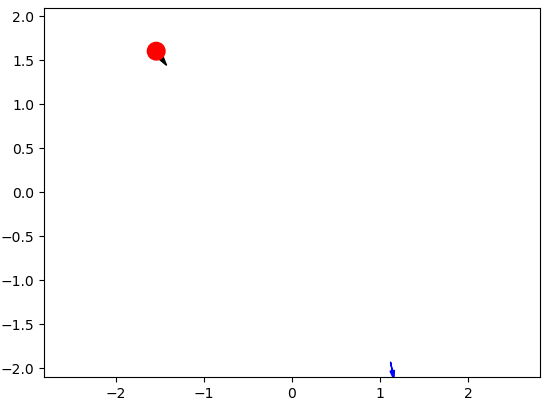
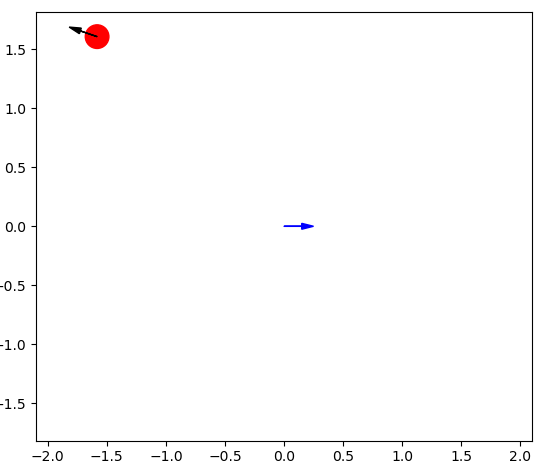
Fix reward functions

Changed region(s): [[0.0, 0.0, 1.0, 1.0], [0.25, 0.0896, 0.3125, 0.1791], [0.5312, 0.4776, 0.5938, 0.5075]]

diff --git a/classic_gym/envs/mobile_robot.py b/classic_gym/envs/mobile_robot.py
@@ -14,7 +14,7 @@ class MobileRobot(gym.Env):
         self.NX = 3
         self.NU = 2
 
-        self.x = np.zeros(self.NX*2)
+        self.x = np.zeros(self.NX)
         
         self.dT = dT
         self.obs = obs
@@ -28,8 +28,8 @@ class MobileRobot(gym.Env):
         # Controller Weight
         self.action_space = spaces.Box(low=-0.5, high=0.5, shape=(2,))
         self.observation_space = spaces.Box(
-            low=np.array([-2, -2, -6, -2, -2, -6]),
-            high=np.array([2,  2,  6,  2,  2,  6]),
+            low=np.array([-2, -2, -6]),
+            high=np.array([2,  2,  6]),
             dtype=np.float32
         )
 
@@ -80,17 +80,12 @@ class MobileRobot(gym.Env):
         np.random.seed(seed=seed)
 
     def reset(self):
-        self.x = np.zeros(self.NX*2)
+        self.x = np.zeros(self.NX)
 
         # machine state
         self.x[0] = np.random.uniform(-2, 2)
         self.x[1] = np.random.uniform(-2, 2)
         self.x[2] = np.random.uniform(-np.pi, np.pi)
-
-        # target 
-        self.x[3] = np.random.uniform(-2, 2)
-        self.x[4] = np.random.uniform(-2, 2)
-        self.x[5] = np.random.uniform(-np.pi, np.pi)
 
         self.time = 0
 
@@ -98,11 +93,12 @@ class MobileRobot(gym.Env):
 
     def step(self, u):
         u = np.clip(u, -0.5, 0.5)
+
         dT = self.dT / self.obs
         
         for _ in range(self.obs):
-            A, B, g = self.gen_dmodel(self.x[:self.NX], u, dT)
-            self.x[:self.NX] = A@self.x[:self.NX] + B @ u +g
+            A, B, g = self.gen_dmodel(self.x, u, dT)
+            self.x = A@self.x + B @ u +g
 
         self.time += 1
 
@@ -127,11 +123,11 @@ class MobileRobot(gym.Env):
         circle = plt.Circle((self.x[0],self.x[1]), 0.1, color='r', fill=True)
         ax.add_artist(circle)
         plt.arrow(self.x[0], self.x[1], 
-                  l*np.sin(self.x[2]), l*np.cos(self.x[2]), 
+                  l*np.cos(self.x[2]), l*np.sin(self.x[2]), 
                   head_width=0.05, head_length=0.1, fc='k', ec='k', zorder=10)
         # Target Arrow
-        plt.arrow(self.x[3], self.x[4], 
-                  l*np.sin(self.x[5]), l*np.cos(self.x[5]), 
+        plt.arrow(0, 0, 
+                  l*np.cos(0.), l*np.sin(0.), 
                   head_width=0.05, head_length=0.1, fc='b', ec='b')
         plt.axis('equal')
         plt.xlim(-2.1, 2.1)
@@ -141,9 +137,9 @@ class MobileRobot(gym.Env):
     def _reward(self, obs, act):
         obs_clipped = np.clip(obs, self.observation_space.low, self.observation_space.high)
         crashed = not np.array_equiv(obs_clipped, obs)
-        J_state = np.sum((self.x[:self.NX] - self.x[self.NX:])**2)
+        J_state = np.sum(self.x**2)
         J_action = np.sum(act**2) * 0.1
-        return - (J_state + J_action + crashed*np.inf)
+        return - (J_state + J_action)
 
     def _is_terminal(self, obs):
         time = self.time > self.spec.max_episode_steps

diff --git a/classic_gym/envs/evaporator.py b/classic_gym/envs/evaporator.py
@@ -109,7 +109,7 @@ class Evaporator(gym.Env):
         obs_clipped = np.clip(obs, self.observation_space.low, self.observation_space.high)
         crashed = not np.array_equiv(obs_clipped, obs)
         J=23.8176373535448*act[0]+0.6*act[1]+1621.96634461555-86.86696632099708*obs[1]
-        return - (J + crashed*np.inf)
+        return -J
 
     def _is_terminal(self, obs):
         time = self.time > self.spec.max_episode_steps

diff --git a/README.md b/README.md
@@ -105,16 +105,13 @@ Roomba like mobile robot
 ![MobileRobot](assets/mobile_robot.png)
 
 #### Observation
-Type: Box(6)
+Type: Box(3)
 
 Num | Observation | Min | Max
 ---|---|---|---
 0 | Robot X Position [m] | -2 | 2 
 1 | Robot Y Position [m] | -2 | 2 
 2 | Robot Angle [rad] | - 6  | 6
-3 | Robot X Target Position [m] | -2 | 2 
-4 | Robot Y Target Position [m] | -2 | 2 
-5 | Robot Target Angle [rad] | - 6  | 6
 
 #### Actions
 Type: Box(2)
@@ -125,4 +122,4 @@ Num | Action | Min | Max
 1 | Left Wheel Speed [m/s] | -0.5 |  0.5
 
 #### Reward
-Reward is $ \Vert q - q_target \Vert_2^2 + 0.1 * \Vert u \Vert_2^2 $, where q is robot state and u is action.
+Reward is $ \Vert q - q_target \Vert_2^2 + 0.1 * \Vert u \Vert_2^2 $, where q is robot state and u is action. The target is [0m, 0m, 0rad].
